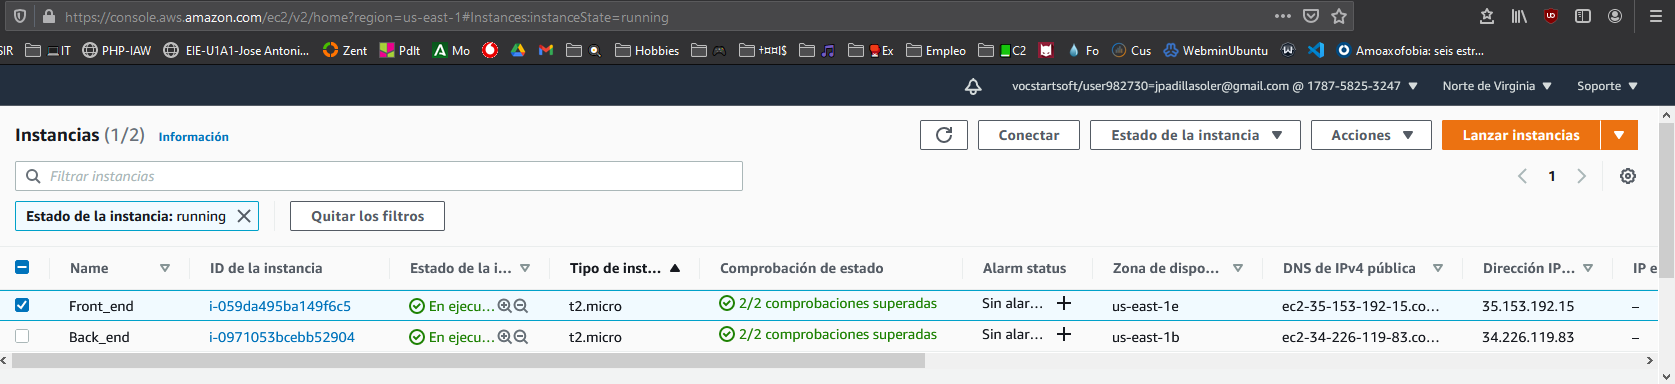
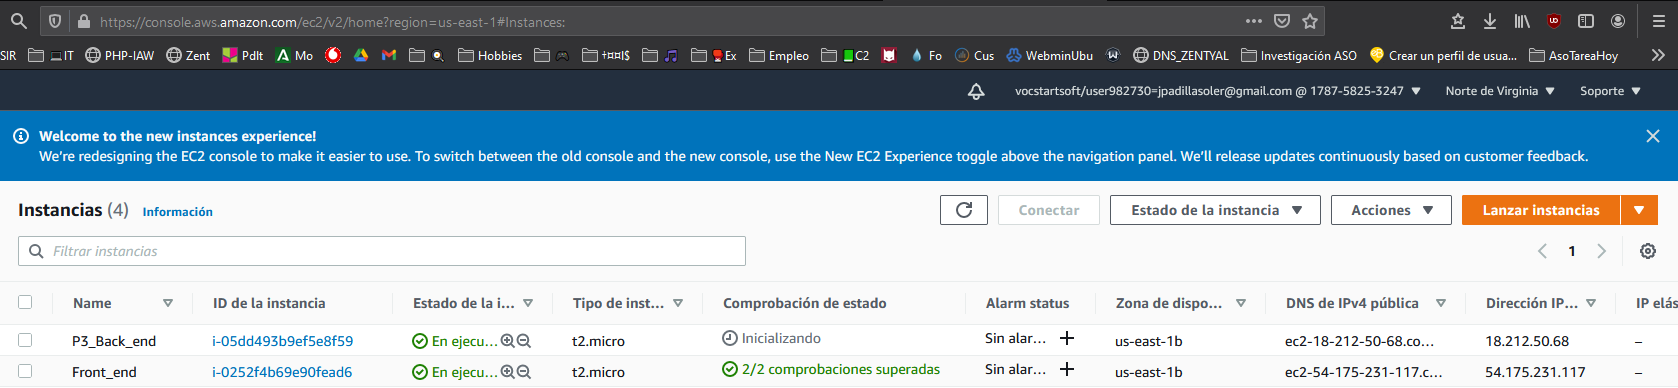
Finalización y documentación
Cambiadas imagenes y corregido el texto.

diff --git a/README.md b/README.md
@@ -1,5 +1,5 @@
 # iaw-practica-03
-Práctica dos de la asignatura IAW de 2º de Asir.
+Práctica tres de la asignatura IAW de 2º de Asir.
 
 > IES Celia Viñas (Almería) - Curso 2020/2021
 Módulo: IAW - Implantación de Aplicaciones Web
@@ -17,7 +17,7 @@ Vamos a las instancias de AWS como en el paso anterior y levantamos dos máquina
 ![](/images/1.png)
 Gracias al paso anterior, ahora veremos a qué servidor estamos conectados en la esquina inferior izquierda de Visual Studio Code cuando hagamos una conexión SSH de manera idéntica que en la práctica anterior.
 
-En la ventana de instancias de AWS server, configuramos los grupos de seguridad para que nos permitan llevar el proceso a cabo. Es importante abrir los puertos 22(ssh) 23 (telnet) y MySQL (3306) para hacer las debidas comprobaciones. Desplegamos cada script en su máquina correspondiente, lo que instalará los componentes necesarios para front_end y back_end respectivamente. Algunas variables dependen de la IP que hayamos recibido, así que actuaremos en consecuencia. En esta práctica, la IPPRIVADA será 172.31.88.192 que se corresponderá con el servidor back_end. Si hemos puesto mal esta IP, tendremos un error `X field is empty` cuando usemos la aplicación web más adelante.
+En la ventana de instancias de AWS server, configuramos los grupos de seguridad para que nos permitan llevar el proceso a cabo. Es importante abrir los puertos 22(ssh) 23 (telnet) y MySQL (3306) para hacer las debidas comprobaciones. Desplegamos cada script en su máquina correspondiente, lo que instalará los componentes necesarios para front_end y back_end respectivamente. Algunas variables dependen de la IP que hayamos recibido, así que actuaremos en consecuencia. En esta práctica, la IPPRIVADA será 172.31.84.162 que se corresponderá con el servidor back_end. Si hemos puesto mal esta IP, tendremos un error `X field is empty` cuando usemos la aplicación web más adelante.
 
 Una vez ejecutados los dos script, nos aseguraremos de que ambas máquinas puedan conectarse por vía interna. Haremos una conexión telnet, usando los puertos anteriormente abiertos, con el formato `telnet IP-SERVIDOR-MYSQL 3306.`
 
@@ -27,9 +27,10 @@ Podemos hacer una comprobación más concienzuda, instalando el cliente MySQL en
 SET PASSWORD FOR 'lamp_user'@'%' = 'lamp_password';
 GRANT ALL PRIVILEGES ON lamp_db.* TO 'lamp_user'@'%';`
 
-Desde la terminal de la máquina front_end, usaremos la línea `mysql -u lamp_user -plamp_password -h 172.31.88.192` y ya tendremos el acceso por vía interna asegurado. Es importante no dejar espacio entre -p y la contraseña.`
+Desde la terminal de la máquina front_end, usaremos la línea `mysql -u lamp_user -plamp_password -h 172.31.84.162` y ya tendremos el acceso por vía interna asegurado. Es importante no dejar espacio entre -p y la contraseña.`
 
 Para finalizar, probaremos a conectarnos desde la aplicación web. Si todo funciona bien, podemos introducir los datos desde la web y recibiremos un mensaje `Data added successfully`, pudiendo ir más allá y revisar las tablas mysql con los comandos correspondientes.
 ![](/images/2.png)
 
-Nota: La IP en las imágenes difieren por un pequeño error que me obligó a crear una nueva instancia para la máquina front_end. Corregido con nueva imagen.
+También deberá funcionar correctamente PHPYMYADMIN, como en el ejemplo. http://54.175.231.117/phpmyadmin/
+![](/images/3.png)
